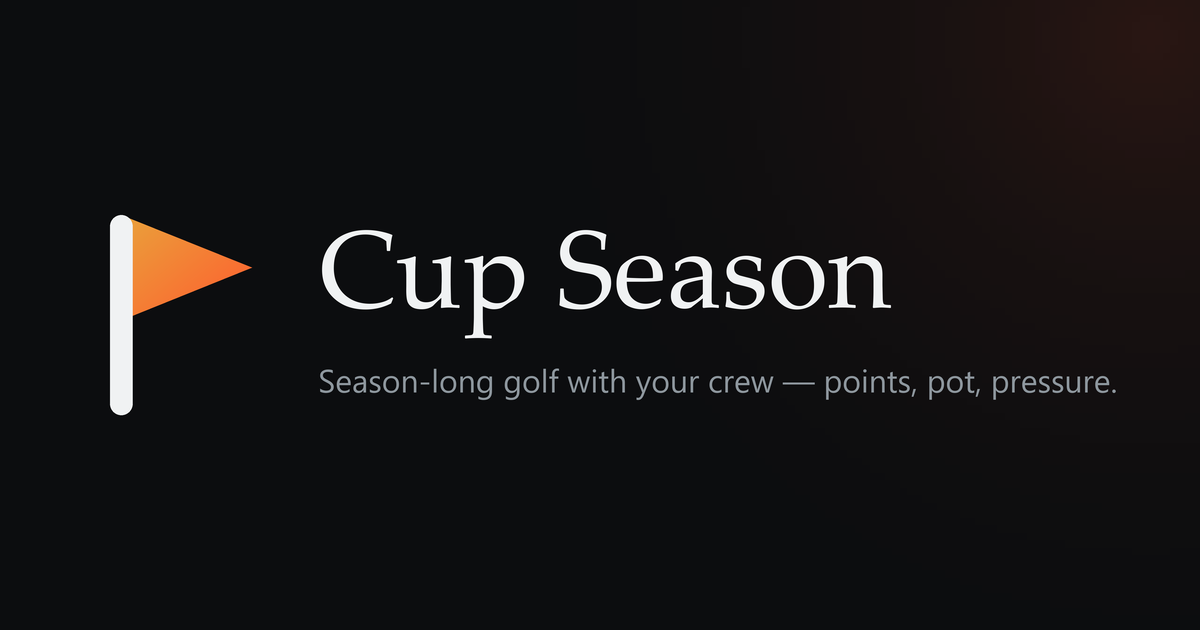
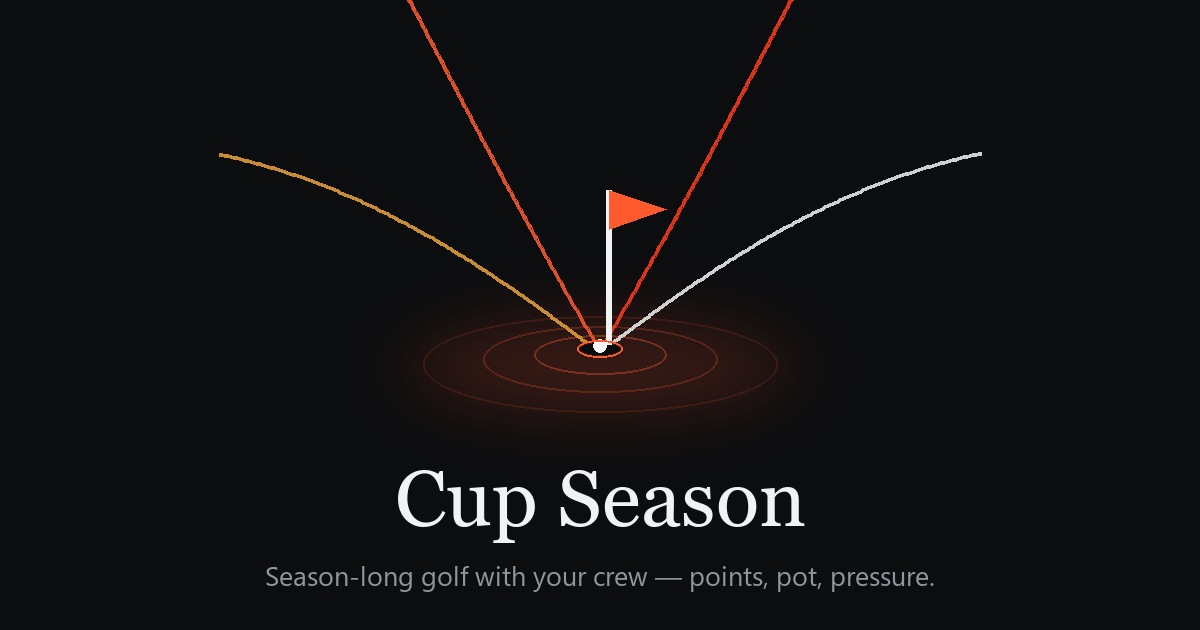
feat(brand): the crest becomes the key visual, the flag stays the mark (D91)
Plus D90: the settlement card drops its CLOSED ON 15 caption.

D91. The door has carried the crest since D76 — four tracers on the heat ramp
landing on a flagged cup — while D89 put the ember flag on every icon and link
preview. Two good pieces of art with no stated relationship, and it showed: a
settlement card shared into a text thread previewed as the flag lockup, then
opening the app showed the crest. Same product, two faces, one tap apart.

Both keep their job, now stated. The crest is the KEY VISUAL (door, and now the
1200x630 link preview). The ember flag stays the MARK (every icon, favicon,
apple-touch, maskable tile, header). The crest cannot be the mark and this was
tested rather than asserted: its 2.6px tracers thin to nothing by 32px and
vanish at 16, and thickening them enough to survive (~3x, two ripples cut, the
fan squeezed into a square) yields a legible mark that is no longer the drawing
being proposed. Both were built and compared before the split was chosen.

crest-static.svg is a static extraction of the door's EXACT geometry, so the
preview and the door are one drawing rather than two that resemble each other.
tools/make-og-image.py regenerates the PNG and lives outside brand/ on purpose:
stamp-version.sh copies brand/ wholesale into dist/, so a script left there
would be world-readable.

D90. The card printed three numbers (4, 3, 15) with a key to none of them, and
the third is derivable from the first two — and simply wrong-looking on a nine,
[…]

diff --git a/index.html b/index.html
@@ -5576,8 +5576,13 @@ function drawSettlementCard(d){
       }
       x.globalAlpha=1;
     }
-    ctr(HL.closed ? `CLOSED ON ${HL.closed}` : `THRU ${HL.played||HL.cells.length}`,
-        902, `500 26px ${MONO}`, HL.closed?HOT:MUT, 6);
+    /* D90: the caption is GONE. "CLOSED ON 15" put a third number (4, 3, 15)
+       on a card that offers no key to any of them — and it is derivable from
+       the hero (18 − 3) and simply WRONG-looking on a nine, where 4&3 closes
+       on the 6th. The strip already says it: three hollow cells ARE the "&3".
+       The unclosed "THRU n" goes with it — a full strip states the same thing.
+       (The in-app hole strip keeps its footer: that surface has room and
+       context; this one is an artifact a stranger reads in a text thread.) */
     /* the legend is a swatch and a name — "took the ember holes" was internal
        vocabulary on an artifact headed for people who have never seen the app */
     if(HL.legend){

diff --git a/tools/make-og-image.py b/tools/make-og-image.py
@@ -1,0 +1,127 @@
+#!/usr/bin/env python3
+"""Regenerate og-image.png — the link preview — from the door's crest (D91).
+
+WHY THIS EXISTS: the sign-in door has carried the crest (four tracers landing
+on a flagged cup) since D76, while every link preview showed a plain flag
+lockup. Someone who saw a settlement card in a text thread and then opened the
+app met two different products. This composes the SAME geometry as the door
+into the 1200x630 card so the two surfaces agree.
+
+The mark is NOT changing: the ember flag stays on every icon and favicon (D89).
+This is the key visual only.
+
+Lives in tools/ deliberately — stamp-version.sh copies brand/ wholesale into
+dist/, so a script placed there would be served publicly.
+
+Run:  python tools/make-og-image.py
+Then: verify the PNG is 1200x630 and looks right before committing.
+"""
+import os
+from PIL import Image, ImageDraw, ImageFilter, ImageFont
+
+ROOT = os.path.dirname(os.path.dirname(os.path.abspath(__file__)))
+OUT = os.path.join(ROOT, "og-image.png")
+
+W, H = 1200, 630
+CHARCOAL = (12, 13, 15)
+EMBER = (255, 90, 46)
+FIRE = (255, 59, 26)
+AMBER = (233, 162, 59)
+INK = (240, 242, 243)
+PAPER = (244, 247, 244)
+SLATE = (142, 151, 158)
+
+# crest viewBox is 0 0 460 300; place it centred with the cup on the upper third
+S = 1.5
+OX = 600 - 230 * S          # cup cx=230 lands dead centre
+OY = 10
+
+
+def P(x, y):
+    """crest coordinate -> canvas coordinate"""
+    return (OX + x * S, OY + y * S)
+
+
+def bezier(p0, p1, p2, p3, n=160):
+    pts = []
+    for i in range(n + 1):
+        t = i / n
+        u = 1 - t
+        x = u**3 * p0[0] + 3 * u**2 * t * p1[0] + 3 * u * t**2 * p2[0] + t**3 * p3[0]
+        y = u**3 * p0[1] + 3 * u**2 * t * p1[1] + 3 * u * t**2 * p2[1] + t**3 * p3[1]
+        pts.append((x, y))
+    return pts
+
+
+def font(path, size):
+    return ImageFont.truetype(os.path.join(r"C:\Windows\Fonts", path), size)
+
+
+img = Image.new("RGB", (W, H), CHARCOAL)
+
+# ---- the heat pooled at the cup: a blurred ember ellipse ---------------------
+glow = Image.new("RGBA", (W, H), (0, 0, 0, 0))
+gd = ImageDraw.Draw(glow)
+cx, cy = P(230, 238)
+rx, ry = 150 * S, 44 * S
+gd.ellipse([cx - rx, cy - ry, cx + rx, cy + ry], fill=EMBER + (52,))
+# 58px of blur turned the pool into a brown smudge — the door's glow is a
+# radial stop, not a bloom, so keep it tight enough to still read as ember
+glow = glow.filter(ImageFilter.GaussianBlur(40))
+img = Image.alpha_composite(img.convert("RGBA"), glow)
+
+layer = Image.new("RGBA", (W, H), (0, 0, 0, 0))
+d = ImageDraw.Draw(layer)
+
+# ---- rings spreading from where the tracers land ----------------------------
+for r_x, r_y, cyy, alpha in ((118, 32, 236, 32), (78, 22, 233, 58), (44, 13, 230, 92)):
+    ex, ey = P(230, cyy)
+    d.ellipse([ex - r_x * S, ey - r_y * S, ex + r_x * S, ey + r_y * S],
+              outline=EMBER + (alpha,), width=2)
+
+# ---- the four tracers, on the heat ramp -------------------------------------
+TRACERS = [
+    (((-24, 96), (80, 118), (160, 176), (224, 224)), AMBER),
+    (((96, -20), (140, 66), (190, 160), (227, 222)), EMBER),
+    (((364, -20), (320, 66), (270, 160), (233, 222)), FIRE),
+    (((484, 96), (380, 118), (300, 176), (236, 224)), INK),
+]
+for pts, colour in TRACERS:
+    curve = bezier(*[P(*p) for p in pts])
+    d.line(curve, fill=colour + (217,), width=4, joint="curve")
+
+# ---- the cup, and the flag standing in it -----------------------------------
+ex, ey = P(230, 226)
+d.ellipse([ex - 15 * S, ey - 5.5 * S, ex + 15 * S, ey + 5.5 * S],
+          fill=(10, 11, 13, 255), outline=(51, 32, 24, 255), width=3)
+
+px, py1 = P(236, 223)
+_, py2 = P(236, 120)
+d.line([(px, py1), (px, py2)], fill=INK + (255,), width=6)
+d.polygon([P(236, 120), P(274, 133), P(236, 146)], fill=EMBER + (255,))
+
+bx, by = P(230, 224)
+d.ellipse([bx - 6.75, by - 6.75, bx + 6.75, by + 6.75], fill=PAPER + (255,))
+d.ellipse([ex - 15 * S, ey - 5.5 * S, ex + 15 * S, ey + 5.5 * S],
+          outline=EMBER + (255,), width=2)
+
+img = Image.alpha_composite(img, layer).convert("RGB")
+
+# ---- wordmark + tagline, in the brand's own faces ---------------------------
+d = ImageDraw.Draw(img)
+# SERIF stack is 'Charter','Iowan Old Style','Palatino Linotype',Georgia — Georgia
+# is the member of it that exists on this machine, and the one the settlement
+# card falls back to, so the two artifacts stay in the same voice.
+title = font("georgia.ttf", 80)
+tag = font("segoeui.ttf", 27)
+
+t = "Cup Season"
+tw = d.textbbox((0, 0), t, font=title)
+d.text(((W - (tw[2] - tw[0])) / 2 - tw[0], 452), t, font=title, fill=INK)
+
+s = "Season-long golf with your crew — points, pot, pressure."
+sw = d.textbbox((0, 0), s, font=tag)
+d.text(((W - (sw[2] - sw[0])) / 2 - sw[0], 556), s, font=tag, fill=SLATE)
+
+img.save(OUT, "PNG", optimize=True)
+print(f"wrote {OUT} — {img.size[0]}x{img.size[1]}, {os.path.getsize(OUT)} bytes")

diff --git a/spec/decision-log.md b/spec/decision-log.md
@@ -3152,3 +3152,63 @@ machinery-already-exists. ⚑ marks the points still needing an owner call.*
 - **Lesson (recorded, it will recur):** an upload path whose every failure is
   swallowed needs ONE thing that fails loudly — a check, a test, or a probe.
   The photo path shipped `.jpg`, succeeded, and made the bucket look healthy.
+
+### D90 · The settlement card stops counting to three
+- **Current:** the settlement card printed `CLOSED ON 15` under the `4&3` hero.
+- **Problem:** three numbers (4, 3, 15) on an artifact that offers a key to
+  none of them, and the third is derivable from the first two — 18 − 3 = 15.
+  Worse, it is only true on eighteen holes: a 4&3 on a nine closes on the 6th,
+  and the card never states the hole count, so the line reads as arithmetic the
+  reader cannot check. "Closed" is also insider usage on the one artifact that
+  routinely reaches people who have never played.
+- **Recommendation:** delete the caption. The strip already says it — three
+  hollow cells ARE the "&3" — and the unclosed `THRU n` variant goes with it,
+  since a full strip states the same thing. Considered and rejected:
+  `4 UP WITH 3 TO PLAY` (decodes the notation, but the owner's call was that
+  the card is stronger with hero + strip alone).
+- **Measured, not guessed:** removing a row from an absolutely-positioned
+  canvas leaves a hole, so the layout was measured rather than eyeballed. The
+  card's section gaps run 87 / 84 / 116 / 91 / 90 px; with the caption gone the
+  strip-to-legend gap lands at 91, inside that family. It had been a cramped
+  54-then-18 pair. Nothing was repositioned — the measurement said don't.
+- **Scope:** the CARD only. The in-app hole strip keeps its footer; that
+  surface has room and context around it, and is read by people already inside
+  the product.
+- **Principle:** §16 — every figure shows its work, and a figure that cannot be
+  checked is worse than no figure.
+- **Tradeoffs:** nothing on the artifact now explains the `4&3` notation to a
+  stranger. Accepted deliberately: the card is a scoreboard, not a lesson.
+
+### D91 · The crest is the key visual; the flag is the mark
+- **Current:** the sign-in door has carried the CREST since D76 (Entry V4) —
+  four tracers on the heat ramp landing on a flagged cup, rings spreading from
+  the strike. Meanwhile D89 put the ember flag on every icon, favicon and link
+  preview. Two good pieces of art, no stated relationship between them.
+- **Problem observed:** a settlement card shared into a text thread showed the
+  flag lockup in the link preview; opening the app showed the crest. Same
+  product, two faces, in the space of one tap. The owner proposed promoting the
+  crest to the logo.
+- **Recommendation:** keep both, and say which does which job. The **crest is
+  the key visual** — the door, and now the 1200×630 link preview. The **ember
+  flag stays the mark** — every icon, favicon, apple-touch, maskable tile.
+  This is the ordinary shape of an identity system (a mark holds at 16px, a key
+  visual carries the story), and it needed stating rather than inventing.
+- **Why the crest cannot be the mark — tested, not asserted:** rendered at
+  icon sizes on both grounds, its tracers are 2.6px strokes on a 460-wide
+  field. They thin to nothing by 32px and vanish at 16px, leaving a flag and a
+  smudge. Thickening them to survive (roughly 3×, two ripples deleted, the fan
+  compressed into a square) produces a legible mark that is no longer the
+  drawing that was proposed. Both versions were built and compared before
+  deciding; the gap between them IS the reason for the split.
+- **Also:** `brand/…/converge/v1/crest-static.svg` is a static extraction of
+  the door's exact geometry, so preview and door are one drawing rather than
+  two that resemble each other. `tools/make-og-image.py` regenerates the PNG
+  and lives outside `brand/` on purpose — `stamp-version.sh` copies `brand/`
+  wholesale into `dist/`, so a script there would be world-readable.
+- **Principle:** #5 alive — the door's best moment now reaches the one surface
+  a stranger sees first; D89's "one mark everywhere" is unbroken, because the
+  crest was never competing to be the mark.
+- **Tradeoffs:** the link preview is now atmosphere rather than a legible
+  lockup at thumbnail size — the wordmark carries it where the tracers fade.
+  The retired-ring `lockup-dark.png` / `lockup-light.png` are still stale and
+  still need regenerating; this pass did not touch them.

diff --git a/brand/README.md b/brand/README.md
@@ -1,17 +1,30 @@
 # Cup Season — brand assets
 
-The mark (D89): **the ember flag** — a pennant on a rounded pole, filled with
-the ember gradient (`#F2A03D` → `#FF5A2E`). Nothing else. It is the mark the
-install icons, the apple-touch icon and every link preview already carried;
+Two pieces of art, two jobs (D91). Do not mix them up.
+
+**The mark — the ember flag.** A pennant on a rounded pole, filled with the
+ember gradient (`#F2A03D` → `#FF5A2E`). Nothing else. It goes on every icon,
+the favicon, the apple-touch icon, the maskable tile and the in-app header.
 D89 retired the old four-arc orbit ring from the last three places it survived
-(the favicon, the in-app header, and this folder's SVGs) so one mark ships
-everywhere.
+so one mark ships everywhere. **The mark is chosen for 16 pixels** — that is
+the whole reason it is this simple, and why it is not the crest.
+
+**The key visual — the crest.** Four tracers on the heat ramp (amber, ember,
+fire, white-hot) converging on a flag planted in the cup, rings spreading from
+the strike. It lives on the sign-in door as an animation (`index.html`, Entry
+V4 / D76) and on the 1200×630 link preview as a still. It is built to be seen
+LARGE on a dark ground; its 2.6px tracers disappear below about 32px, so it
+never goes on an icon.
+
+> **Regenerating the link preview:** `python tools/make-og-image.py` composes
+> `og-image.png` from the crest's exact geometry. The script sits in `tools/`
+> and not here on purpose — `stamp-version.sh` copies this whole folder into
+> `dist/`, so anything left here is served publicly.
 
 > **Stale PNGs:** `lockup-dark.png` and `lockup-light.png` still render the
 > retired ring mark and need regenerating from the SVGs above before they are
 > used anywhere. The root icons (`icon-192`, `icon-512`, `icon-512-maskable`,
-> `apple-touch-icon`, `og-image`) are already correct — they are what the
-> flag was taken from.
+> `apple-touch-icon`) are correct — they are what the flag was taken from.
 
 ## Files
 
